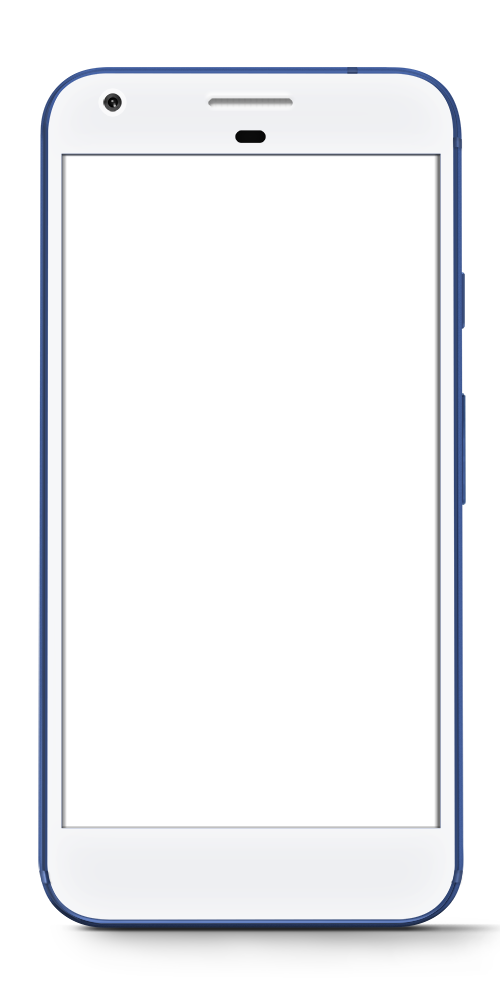
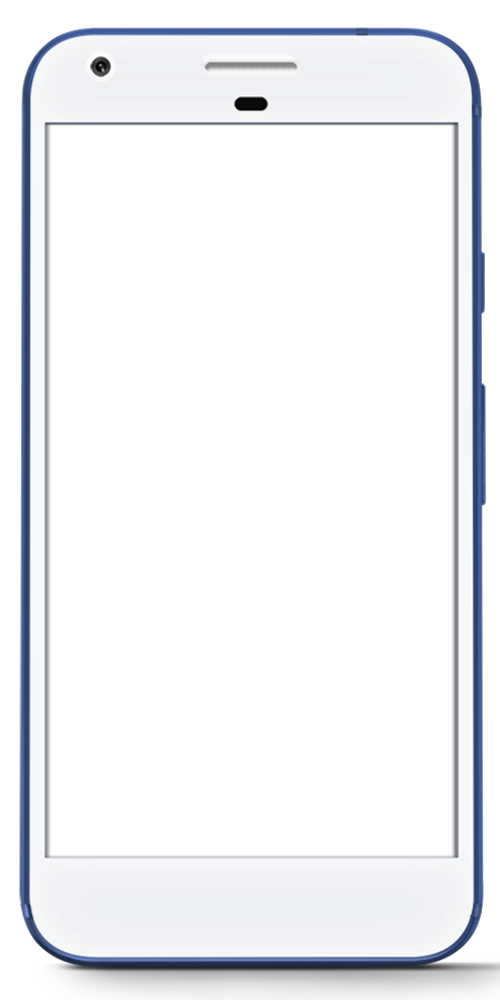
Adjusted properties and layoutof Google Pixel Menu for iPhone X

Changed region(s): [[0.03, 0.0, 1.0, 0.992]]

diff --git a/p4/app/styles/menu-style.scss b/p4/app/styles/menu-style.scss
@@ -3,6 +3,30 @@
 
 // APP MENU
 
+.iPhoneX .app-menu {
+    position: absolute;
+    display: flex;
+    flex-direction: column;
+    align-content: flex-start;
+    align-items: flex-start;
+    background-color: #F9F9F9;
+    width: 67%;
+    //(px = points iphone)
+    height: 787px; // screenHeight - status_bar
+    top: 2px;
+}
+
+.iPhoneX .app-menu-shadow {
+    position: absolute;
+    background-color: #000000;
+    opacity: 0.5;
+    width: 33%;
+    //(px = points iphone)
+    height: 787px; // screenHeight - status_bar
+    top: 2px;
+    left: 67%;
+}
+
 .iPhone7Plus .app-menu {
     position: absolute;
     display: flex;
@@ -12,16 +36,17 @@
     background-color: #F9F9F9;
     width: 67%;
     //(px = points iphone)
-    height: 711px; // screenHeight - status_bar - command_bar
+    height: 711px; // screenHeight - status_bar
     top: 25px;
 }
 
 .iPhone7Plus .app-menu-shadow {
     position: absolute;
-    background-color: #00000060;
+    background-color: #000000;
+    opacity: 0.5;
     width: 33%;
     //(px = points iphone)
-    height: 711px; // screenHeight - status_bar - command_bar
+    height: 711px; // screenHeight - status_bar
     top: 25px;
     left: 67%;
 }
@@ -35,16 +60,17 @@
     background-color: #F9F9F9;
     width: 67%;
     //(px = points iphone)
-    height: 642px; // screenHeight - status_bar - command_bar
+    height: 642px; // screenHeight - status_bar
     top: 25px;
 }
 
 .iPhone7 .app-menu-shadow {
     position: absolute;
-    background-color: #00000060;
+    background-color: #000000;
+    opacity: 0.5;
     width: 33%;
     //(px = points iphone)
-    height: 642px; // screenHeight - status_bar - command_bar
+    height: 642px; // screenHeight - status_bar
     top: 25px;
     left: 67%;
 }
@@ -58,16 +84,17 @@
     background-color: #F9F9F9;
     width: 67%;
     //(px = points iphone)
-    height: 711px; // screenHeight - status_bar - command_bar
+    height: 711px; // screenHeight - status_bar
     top: 25px;
 }
 
 .iPhone6Plus .app-menu-shadow {
     position: absolute;
-    background-color: #00000060;
+    background-color: #000000;
+    opacity: 0.5;
     width: 33%;
     //(px = points iphone)
-    height: 711px; // screenHeight - status_bar - command_bar
+    height: 711px; // screenHeight - status_bar
     top: 25px;
     left: 67%;
 }
@@ -81,16 +108,17 @@
     background-color: #F9F9F9;
     width: 67%;
     //(px = points iphone)
-    height: 642px; // screenHeight - status_bar - command_bar
+    height: 642px; // screenHeight - status_bar
     top: 25px;
 }
 
 .iPhone6 .app-menu-shadow {
     position: absolute;
-    background-color: #00000060;
+    background-color: #000000;
+    opacity: 0.5;
     width: 33%;
     //(px = points iphone)
-    height: 642px; // screenHeight - status_bar - command_bar
+    height: 642px; // screenHeight - status_bar
     top: 25px;
     left: 67%;
 }
@@ -104,16 +132,17 @@
     background-color: #F9F9F9;
     width: 67%;
     //(px = points iphone)
-    height: 543px; // screenHeight - status_bar - command_bar
+    height: 543px; // screenHeight - status_bar
     top: 25px;
 }
 
 .iPhone5 .app-menu-shadow {
     position: absolute;
-    background-color: #00000060;
+    background-color: #000000;
+    opacity: 0.5;
     width: 33%;
     //(px = points iphone)
-    height: 543px; // screenHeight - status_bar - command_bar
+    height: 543px; // screenHeight - status_bar
     top: 25px;
     left: 67%;
 }
@@ -127,16 +156,17 @@
     background-color: #F9F9F9;
     width: 67%;
     //(px = points iphone)
-    height: 598px; // screenHeight - status_bar - command_bar
+    height: 649px; // screenHeight - status_bar - command_bar
     top: 27px;
 }
 
 .GooglePixel .app-menu-shadow {
     position: absolute;
-    background-color: #00000060;
+    background-color: #000000;
+    opacity: 0.5;
     width: 33%;
     //(px = points iphone)
-    height: 598px; // screenHeight - status_bar - command_bar
+    height: 654px; // screenHeight - status_bar - command_bar
     top: 27px;
     left: 67%;
 }
@@ -156,7 +186,8 @@
 
 .Nexus6P .app-menu-shadow {
     position: absolute;
-    background-color: #00000060;
+    background-color: #000000;
+    opacity: 0.5;
     width: 33%;
     //(px = points iphone)
     height: 649px; // screenHeight - status_bar - command_bar
@@ -179,7 +210,8 @@
 
 .Nexus5 .app-menu-shadow {
     position: absolute;
-    background-color: #00000060;
+    background-color: #000000;
+    opacity: 0.5;
     width: 33%;
     //(px = points iphone)
     height: 570px; // screenHeight - status_bar - command_bar

diff --git a/p4/app/styles/device-style.scss b/p4/app/styles/device-style.scss
@@ -58,7 +58,7 @@
 .smartphone-view.iPhoneX {
     //Padding per centrare lo schermo
     //dimensione schermo in pixel = dimensione in dp 375x812
-    padding: 123px 66px 102px 60px;
+    padding: 123px 67px 102px 60px;
     background-image: url("../img/smartphones/ios/iPhone_X.png");
 }
 
@@ -243,8 +243,8 @@
 
 .smartphone-view.GooglePixel {
     //Padding per centrare lo schermo
-    //dimensione schermo in pixel = dimensione in dp 387x641
-    padding: 154px 61px 166px 63px;
+    //dimensione schermo in pixel = dimensione in dp 411x731
+    padding: 124px 43px 141px 46px;
     background-image: url("../img/smartphones/android/google_pixel.png");
 }
 
@@ -370,7 +370,7 @@
 .smartphone-view.Nexus5 {
     //Padding per centrare lo schermo
     //dimensione schermo in pixel = dimensione in dp 360x640
-    padding: 156px 70px 204px 70px;
+    padding: 156px 70px 204px 69px;
     background-image: url("../img/smartphones/android/nexus_5.png");
 }
 
@@ -392,7 +392,7 @@
     */
 
     .action-bar {
-        top: 23px;
+        top: 22px;
         height: 56px;
         line-height: 56px;
     }

diff --git a/p4/app/scripts/routes/application_route.js b/p4/app/scripts/routes/application_route.js
@@ -304,18 +304,18 @@ App.ApplicationRoute = Ember.Route.extend({
 
             this.store.createRecord('smartphone', {
                 name: 'GooglePixel',
-                label: 'Android (387x641) Google Pixel ',
+                label: 'Android (411x731) Google Pixel ',
                 platform: 'android',
                 //Altezza status bar(30) + toolbar(64) in dp
                 viewTop: 93,
                 //Altezza schermo (731) - altezza command bar(55) in dp
-                viewBottom: 586,
+                viewBottom: 675,
                 //Dimensioni in dp
-                screenWidth: 387,
-                screenHeight: 641,
+                screenWidth: 411,
+                screenHeight: 731,
                 //Dimensioni in px - padding css
-                cssWidth: 387,
-                cssHeight: 641
+                cssWidth: 411,
+                cssHeight: 731
             }).save();
 
             this.store.createRecord('smartphone', {
